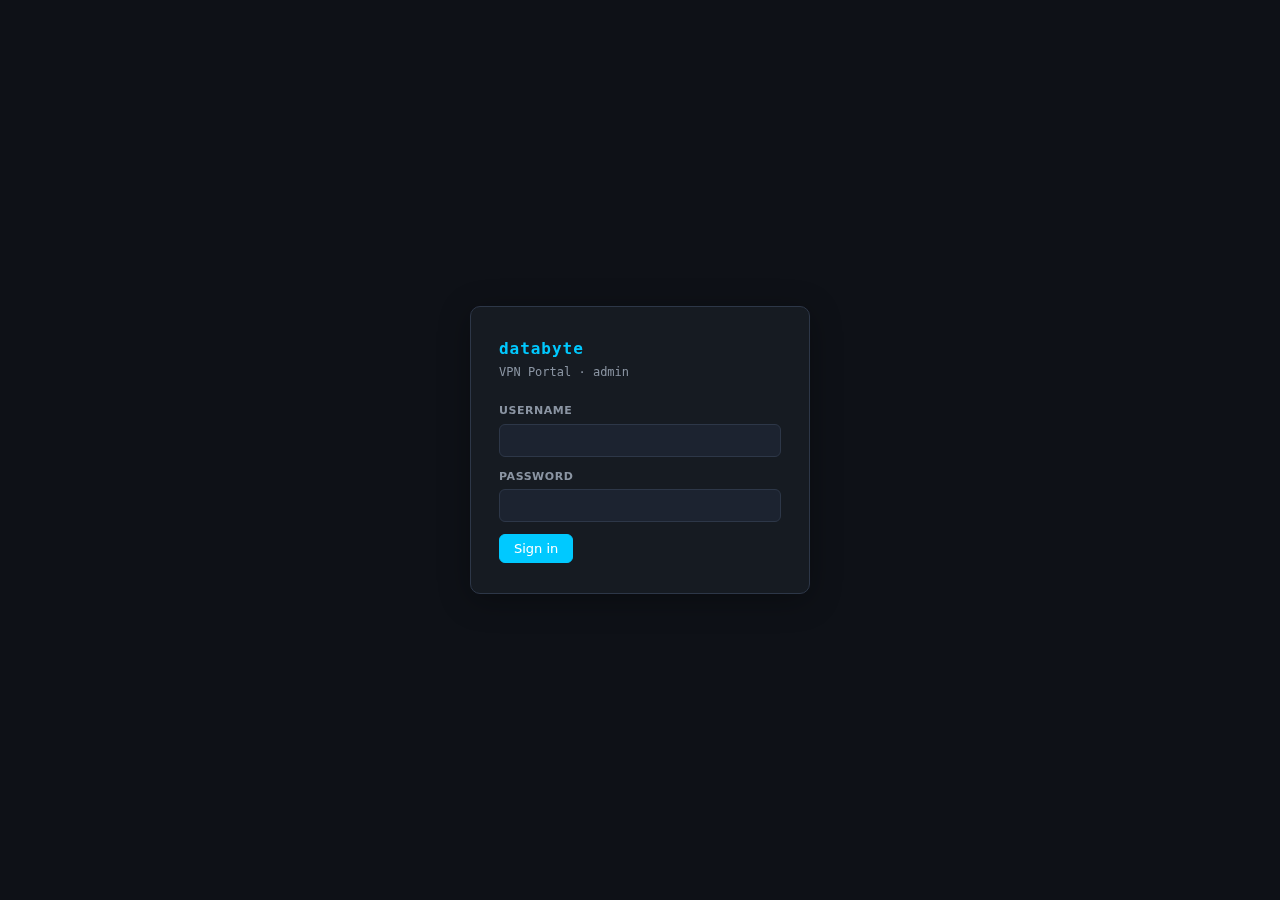
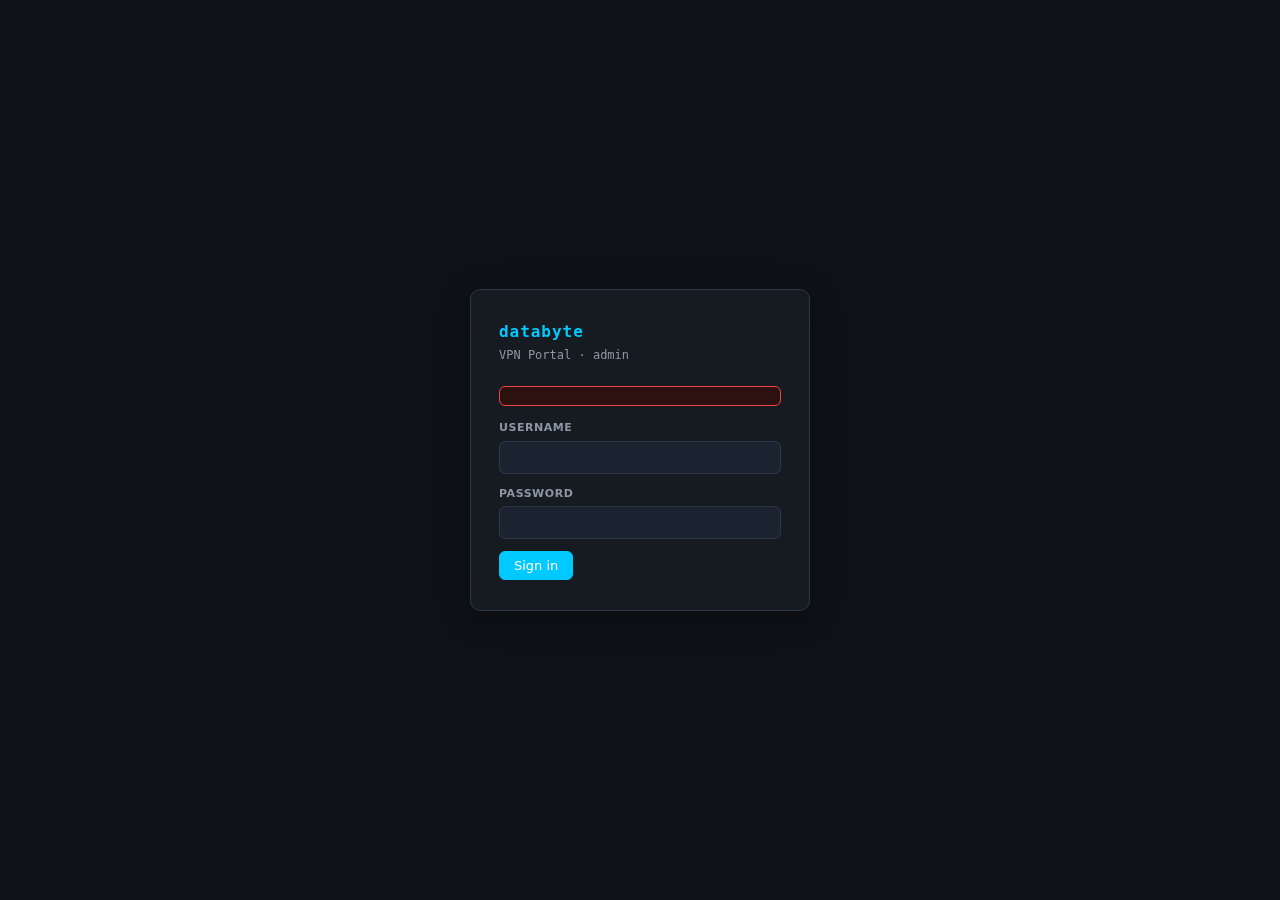
chore(portal): sync drift + commit schema scripts + fresh smoke screenshots
3 categories of uncommitted/unpushed work shipped together:

1. **index.html drift fix** (sync remote → local)
   The local repo's host/vpn-portal/www/index.html was out of sync with the
   production server. Local had ?v=1.4.0; remote has ?v=1.4.2 (CSS) and
   ?v=1.4.2 (JS) after the strict-CSP refactor. Root cause: when I made the
   cache-bust bump in commit 9e8845a, I edited the file on the prod server
   but forgot to commit the updated index.html to the repo. This is the
   kind of drift that's invisible until you do an audit.

2. **3 untracked scripts** (should have been in v1.3.0 / v1.4.0)
   - host/vpn-portal/portal_schema.sql: operator_sessions + customer_portal_sessions
     tables (idempotent CREATE TABLE IF NOT EXISTS for fresh deploys)
   - host/vpn-portal/apply_portal_schema.sh: bash wrapper that calls sqlite3
     on portal_schema.sql; idempotent, safe to re-run
   - host/vpn-portal/scripts/gen-argon2-hash.py: interactive Argon2id hash
     generator (OWASP 2026 params: 19 MiB / 2 iter / 1 par) for rotating
     ADMIN_PASS_HASH in /etc/vpn-portal.env

3. **Fresh smoke screenshots**
   Re-rendered output from today's smoke tests (smoke-01-login,
   smoke-09a-pre-login, smoke-09b-after-login). Original v1.3.0 screenshots
   showed lab portal; these show post-hardening state.

Verified: all 7 portal files (index.html, portal/index.html, app.js, app.css,
portal.js, portal.css, nginx site config) now identical between local repo
[…]

diff --git a/host/vpn-portal/www/index.html b/host/vpn-portal/www/index.html
@@ -4,10 +4,10 @@
 <meta charset="UTF-8" />
 <meta name="viewport" content="width=device-width, initial-scale=1.0" />
 <title>databyte · VPN Portal</title>
-<link rel="stylesheet" href="/static/app.css" />
+<link rel="stylesheet" href="/static/app.css?v=1.4.1" />
 </head>
 <body>
 <div id="app"></div>
-<script src="/static/app.js?v=1.4.0"></script>
+<script src="/static/app.js?v=1.4.2"></script>
 </body>
 </html>

diff --git a/host/vpn-portal/scripts/gen-argon2-hash.py b/host/vpn-portal/scripts/gen-argon2-hash.py
@@ -1,0 +1,48 @@
+#!/usr/bin/env python3
+"""Generate an Argon2id hash for the operator admin password.
+
+Usage:
+    python3 gen-argon2-hash.py 'your-admin-password'
+    # or interactive:
+    python3 gen-argon2-hash.py
+
+Output goes to /etc/vpn-portal.env as ADMIN_PASS_HASH=...
+
+Parameters per OWASP 2026 Password Storage Cheat Sheet:
+  - memory_cost: 19 MiB
+  - time_cost: 2 iterations
+  - parallelism: 1
+"""
+import os
+import sys
+import subprocess
+
+sys.path.insert(0, os.path.dirname(os.path.dirname(os.path.abspath(__file__))))
+import portal_auth
+
+
+def main():
+    if len(sys.argv) > 1:
+        password = sys.argv[1]
+    else:
+        import getpass
+        password = getpass.getpass("Admin password: ")
+        confirm = getpass.getpass("Confirm: ")
+        if password != confirm:
+            print("ERROR: passwords don't match", file=sys.stderr)
+            sys.exit(1)
+
+    if len(password) < 12:
+        print("WARNING: password is <12 chars. Recommend >=16 for production.",
+              file=sys.stderr)
+
+    h = portal_auth.hash_operator_password(password)
+    print(f"Argon2id hash ({len(h)} chars):")
+    print(h)
+    print()
+    print("Add to /etc/vpn-portal.env as:")
+    print(f"ADMIN_PASS_HASH={h}")
+
+
+if __name__ == "__main__":
+    main()